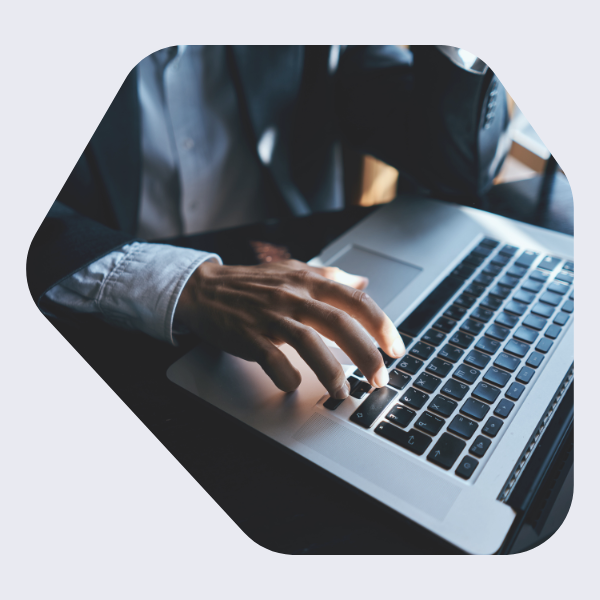
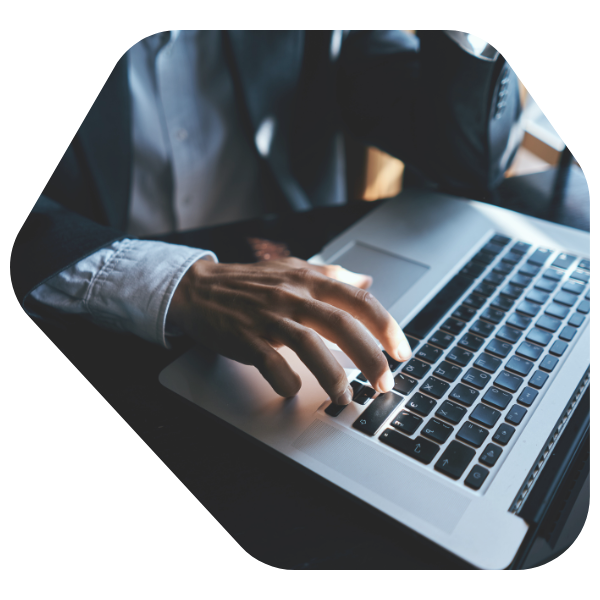
Added pictures

diff --git a/public/html/index.html b/public/html/index.html
@@ -32,11 +32,11 @@
 
          <div id="introduction-container">
             <div id="overview-features">
-                <img src="../images/girl-features.png" alt="photo of girl-features">
+                <img src="../images/Profiles.png" alt="photo of girl-features">
 
                 <p id="overview-content">
                         <ul id = "features-list">
-                          <p><strong>Key Features</strong>
+                          <p id = "Key-Features-Title"><strong>Key Features</strong>
                           <li><strong>PDF Job Offer Upload</strong>: Users can upload job offers in PDF format, and the tool extracts relevant data for analysis.</li>
                           <li><strong>Side-by-Side Comparison</strong>: Allows detailed comparison of salary, bonuses, stock options, and additional benefits.</li>
                           <li><strong>Customized Ranking System</strong>: Users can set personalized ranking criteria based on what matters most to them (e.g., salary, stock options).</li>

diff --git a/public/styles/style.css b/public/styles/style.css
@@ -59,7 +59,7 @@ footer ul li a:hover {
 #overview-features{
     display: flex;
     flex-direction: row;
-    background-color: #E9EAF1;
+    background-color: white;
     color: black;
     width: fit-content;
     padding: 60px;
@@ -179,6 +179,12 @@ footer ul li a:hover {
     margin-top: 30px;
     margin-bottom: 50px;
 
+}
+
+#Key-Features-Title{
+    color: white;
+    background-color: #5E69B0;
+    padding: 10px;
 }
 
 
